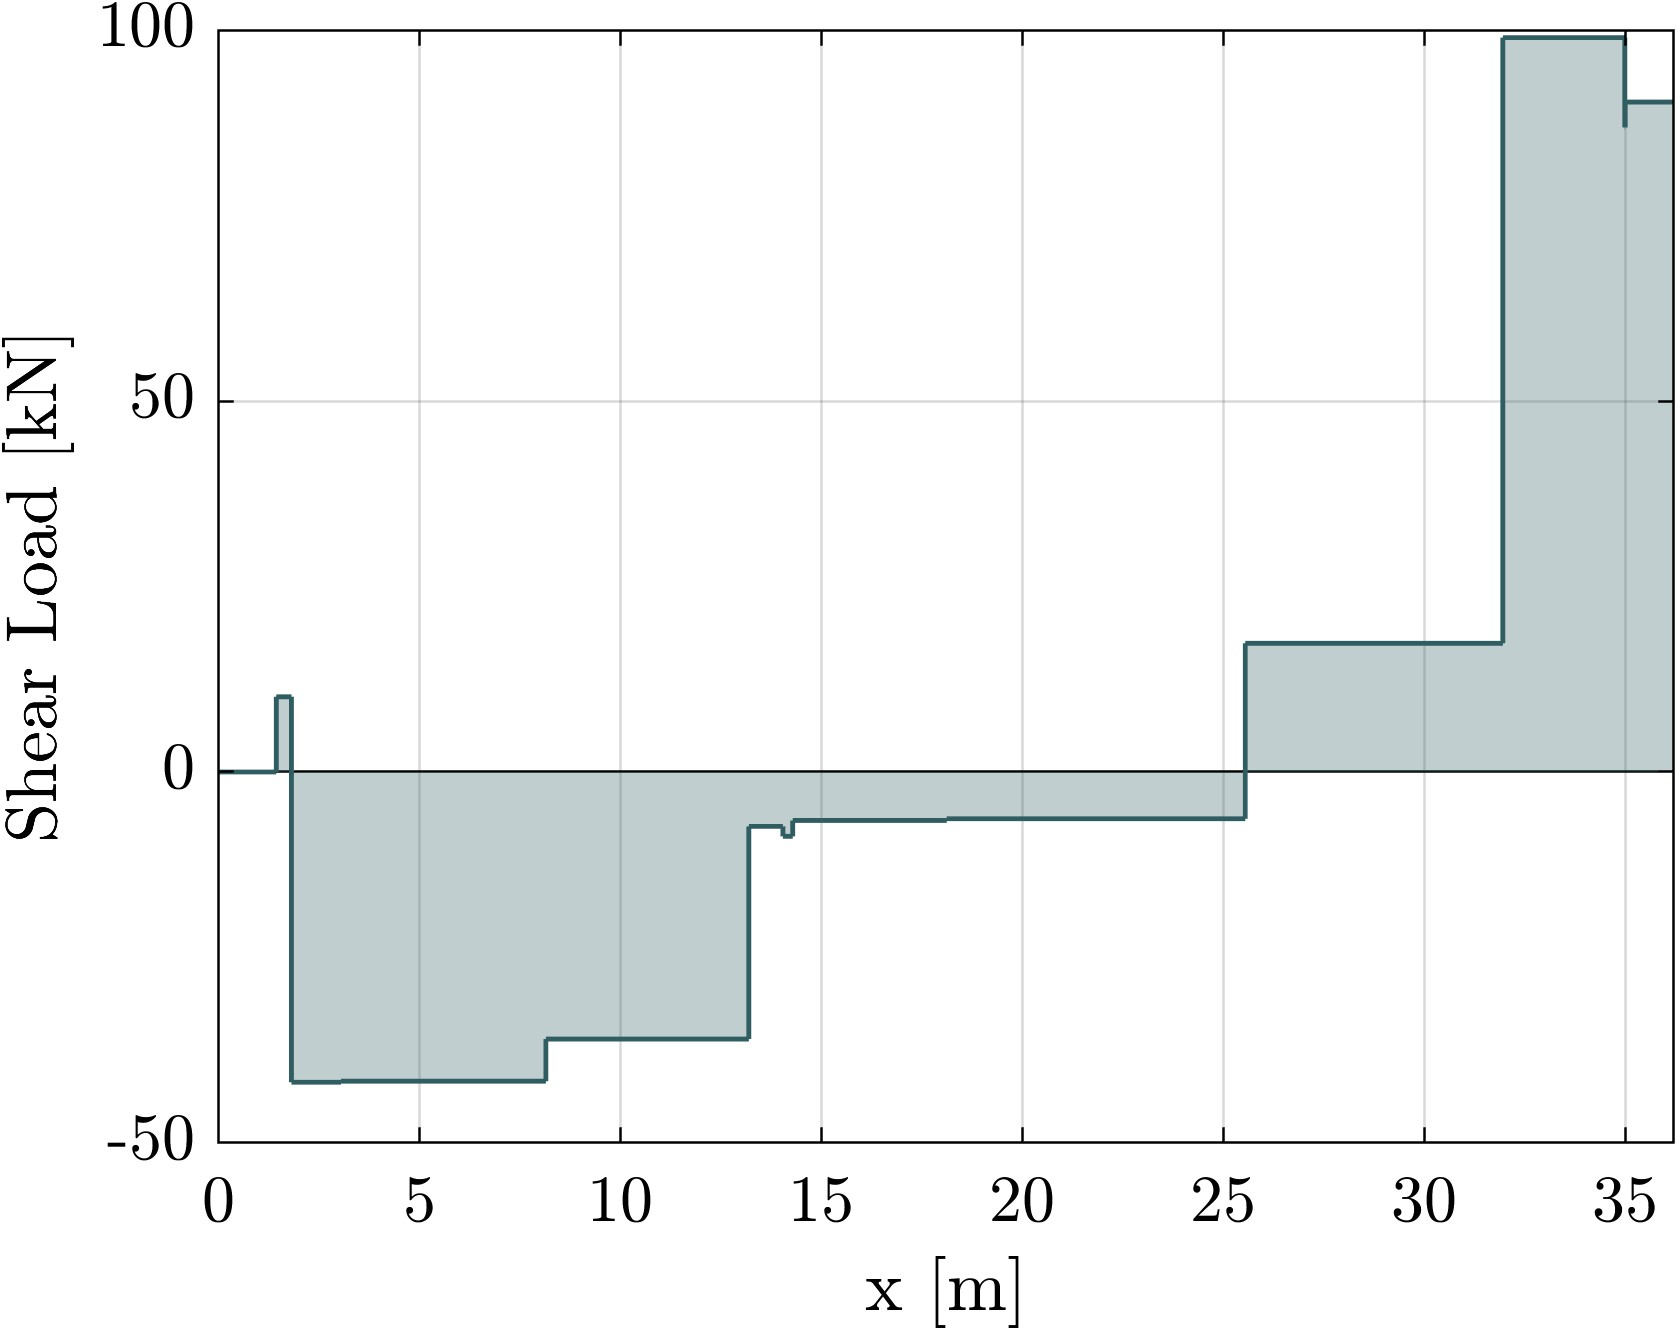
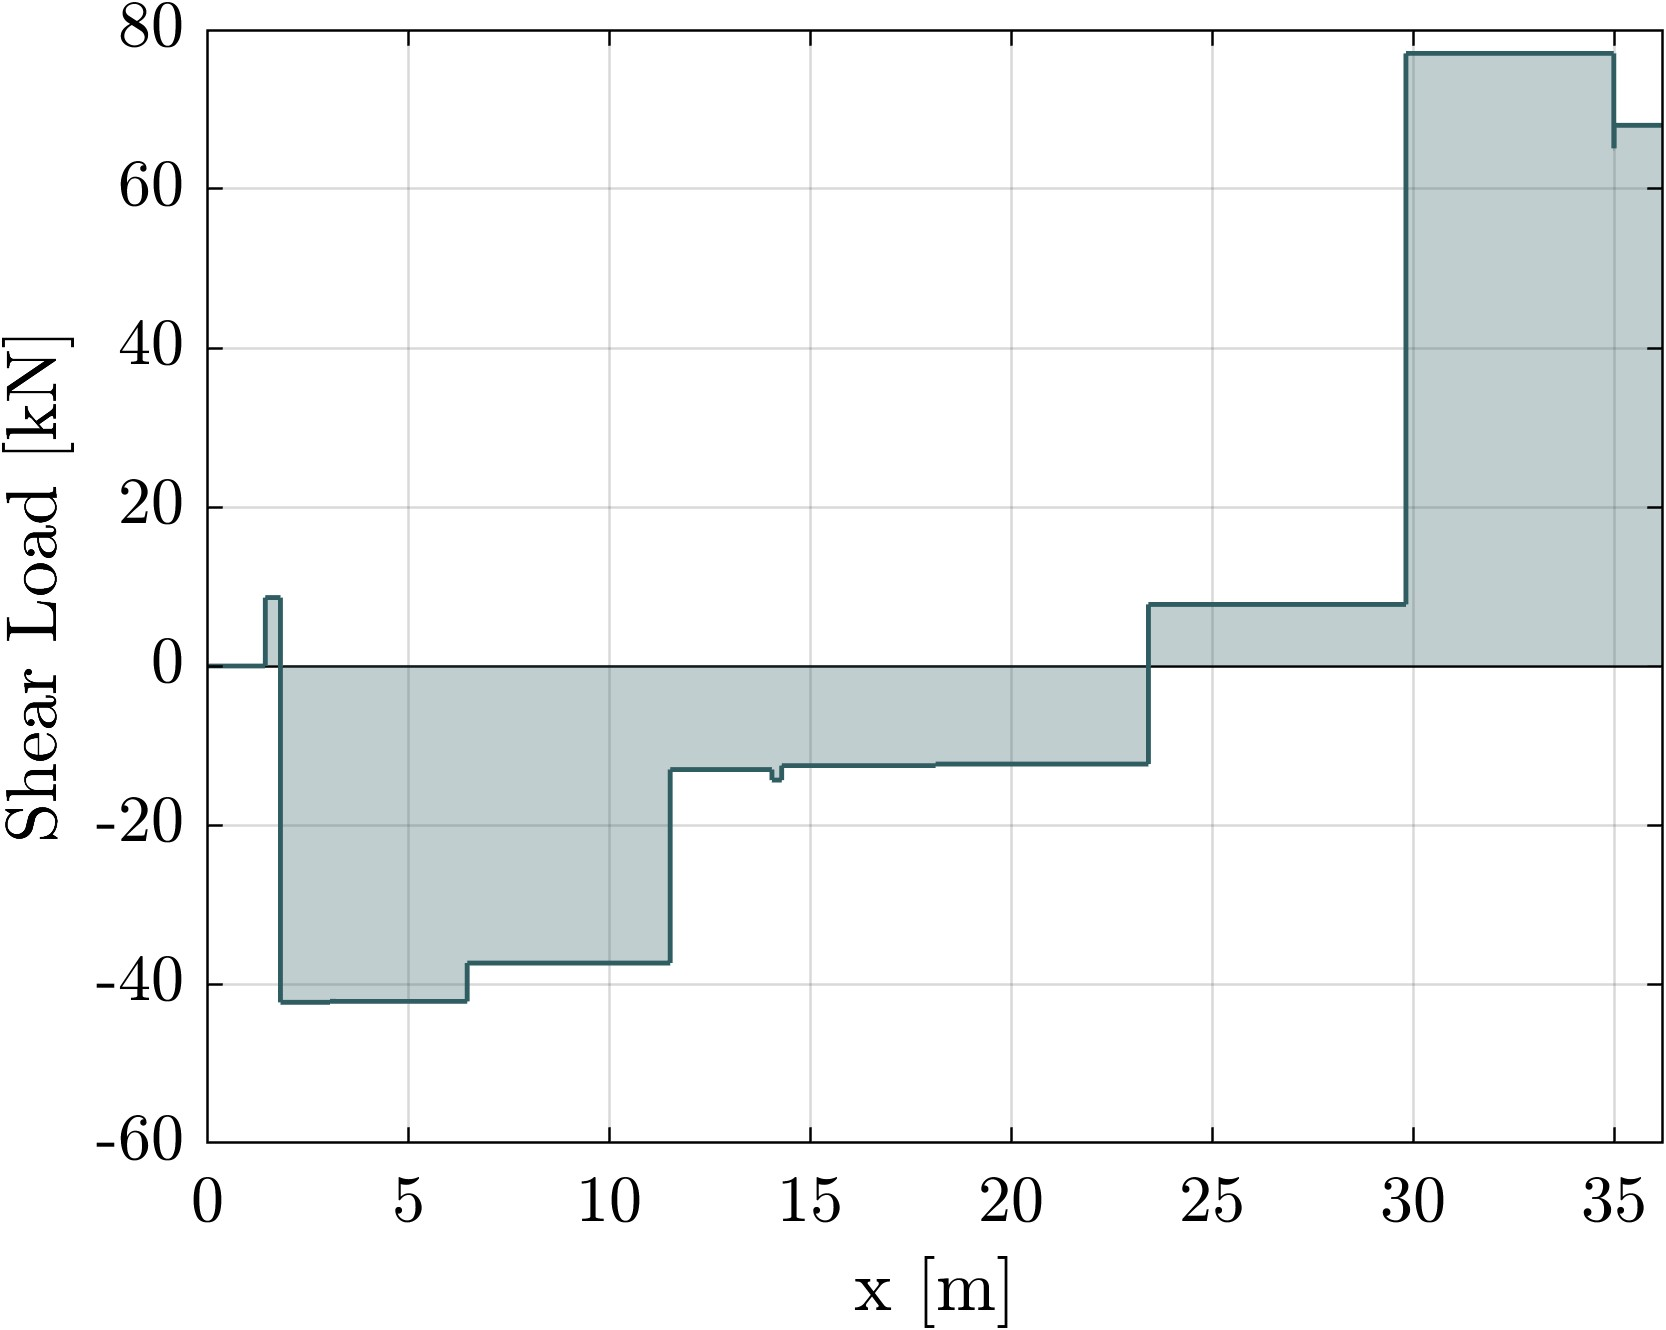
.

diff --git a/Codici/structures/thicknessFunction.m b/Codici/structures/thicknessFunction.m
@@ -19,7 +19,7 @@ end
 for ii = launcher(1):-1:1
     r = [r , configuration.geometry.stage{ii}.interstage.meanRadius, configuration.stage{ii}.fuelTankR,  ...
         configuration.stage{ii}.oxTankR, configuration.geometry.stage{ii}.radius] ;
-    h = [ h, configuration.geometry.stage{ii}.interstage.length, configuration.stage{ii}.fuelTankH, configuration.stage{ii}.oxTankH,...
+    h = [ h, configuration.geometry.stage{ii}.interstage.length, configuration.stage{ii}.fuelTankH, configuration.stage{ii}.oxTankH-2*configuration.stage{ii}.oxTankR,...
         configuration.geometry.stage{ii}.thrustFrame] ;
     
     rhoProps = [rhoProps, 0, enginesUsed{ii}.fuelDens, enginesUsed{ii}.oxDens, 0] ;

diff --git a/Codici/structures/initialMassEstimation.m b/Codici/structures/initialMassEstimation.m
@@ -175,8 +175,8 @@ lOverD = 5;
     opt.stage{i}.stucturalMass = mStructure;
     opt.stage{i}.mProp = mProp;
     opt.stage{i}.mStage = mStage;
-    opt.stage{i}.fuelTankH = 2 * sol1(1) + sol1(2);
-    opt.stage{i}.oxTankH =  sol1(3);
+    opt.stage{i}.fuelTankH = sol1(2);
+    opt.stage{i}.oxTankH =  2 * sol1(1) + sol1(3);
     opt.stage{i}.fuelTankR = sol1(1);
     opt.stage{i}.oxTankR = sol1(1);
 
